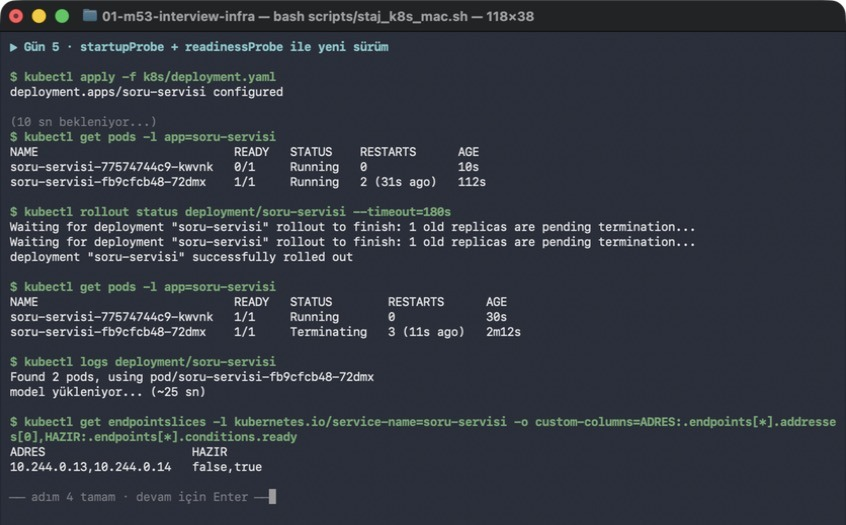
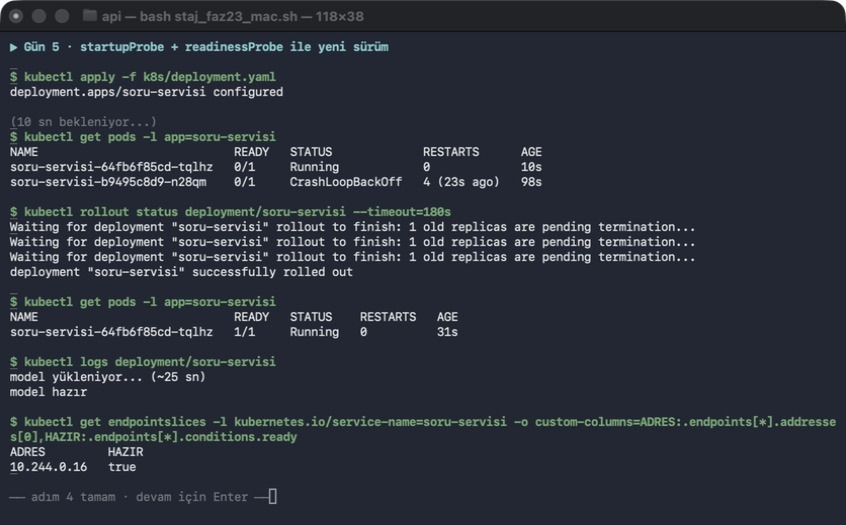
SIGTERM işleyicisi (soru-servisi:1.2) ve admin statik dosyaları
- k8s/app.py: PID 1 iken SIGTERM yok sayılıyordu; işleyici eklendi,
  docker stop 3,1 sn'den 0,1 sn'ye indi
- Manifestler, CI ve betikler soru-servisi:1.2 etiketini kullanıyor
- config/asgi.py: DEBUG'da ASGIStaticFilesHandler; Daphne statik dosya
  sunmadığı için yönetim paneli stilsiz açılıyordu
- Yeni Mac ekran görüntüleri ve README'de sorun kayıtları

Claude-Session: https://claude.ai/code/session_01Kq5kEE8Kt9hC5jwmHe3cs3

diff --git a/k8s/app.py b/k8s/app.py
@@ -4,6 +4,8 @@ Model ağırlıkları yüklenirken servis ayağa kalkar ama istek alamaz;
 yükleme bitince /healthz ve /ready uçları 200 döner.
 """
 import os
+import signal
+import sys
 import threading
 import time
 from http.server import BaseHTTPRequestHandler, ThreadingHTTPServer
@@ -34,6 +36,14 @@ class Handler(BaseHTTPRequestHandler):
         pass
 
 
+def handle_sigterm(signum, frame):
+    # Konteynerde PID 1 olarak çalışıyoruz: işleyicisi olmayan SIGTERM çekirdek
+    # tarafından yok sayılıyor ve kubelet 30 sn bekleyip SIGKILL gönderiyordu.
+    print("SIGTERM alındı, kapanıyor", flush=True)
+    sys.exit(0)
+
+
 if __name__ == "__main__":
+    signal.signal(signal.SIGTERM, handle_sigterm)
     threading.Thread(target=load_model, daemon=True).start()
     ThreadingHTTPServer(("0.0.0.0", 8080), Handler).serve_forever()

diff --git a/api/config/asgi.py b/api/config/asgi.py
@@ -6,6 +6,15 @@ from django.core.asgi import get_asgi_application
 os.environ.setdefault("DJANGO_SETTINGS_MODULE", "config.settings")
 django_asgi_app = get_asgi_application()
 
+from django.conf import settings  # noqa: E402
+
+if settings.DEBUG:
+    # daphne statik dosya sunmuyor; geliştirmede admin CSS/JS'i Django'nun
+    # staticfiles işleyicisi sunsun (üretimde Caddy/whitenoise gibi ayrı bir katman)
+    from django.contrib.staticfiles.handlers import ASGIStaticFilesHandler  # noqa: E402
+
+    django_asgi_app = ASGIStaticFilesHandler(django_asgi_app)
+
 from interviews.routing import websocket_urlpatterns  # noqa: E402
 
 application = ProtocolTypeRouter({

diff --git a/README.md b/README.md
@@ -55,15 +55,15 @@ DB_ENGINE=sqlite .venv/bin/python manage.py test -v 2
 `k8s/app.py`, açılışta modeli belleğe yüklüyormuş gibi yaklaşık 25 saniye bekleyen bir servis. Yükleme bitene kadar `/healthz` ve `/ready` uçları `503` döner.
 
 ```bash
-docker build -t soru-servisi:1.1 k8s/
+docker build -t soru-servisi:1.2 k8s/
 # Docker Desktop'ın yerleşik kümesi yerel imajı doğrudan görür.
-# Ayrı bir kind kümesinde:  kind load docker-image soru-servisi:1.1
-# minikube:                 minikube image load soru-servisi:1.1
+# Ayrı bir kind kümesinde:  kind load docker-image soru-servisi:1.2
+# minikube:                 minikube image load soru-servisi:1.2
 kubectl apply -f k8s/deployment.yaml -f k8s/service.yaml
 kubectl rollout status deployment/soru-servisi
 ```
 
-Karşılaştırma için `k8s/deployment-liveness-only.yaml` yalnızca liveness probe içeren ilk sürümü tutuyor. İmaj her değiştiğinde etiketi de değiştiriyorum (`1.0` → `1.1`); sebebi aşağıdaki tabloda.
+Karşılaştırma için `k8s/deployment-liveness-only.yaml` yalnızca liveness probe içeren ilk sürümü tutuyor. İmaj her değiştiğinde etiketi de değiştiriyorum (`1.0` → `1.1` → `1.2`); sebebi aşağıdaki tabloda.
 
 | Probe | Görevi | Ayar |
 |---|---|---|
@@ -83,7 +83,8 @@ Karşılaştırma için `k8s/deployment-liveness-only.yaml` yalnızca liveness p
 | Pod açılır açılmaz `Error`: `can't open file '/app/app.py': [Errno 13] Permission denied` | Mac'teki dosyanın izni `0600` idi; `COPY` izni imaja aynen taşıdı, uygulama ise root olmayan kullanıcıyla (uid 10001) çalışıyor | `COPY --chmod=0644 app.py .` |
 | Dockerfile düzeldiği hâlde pod'lar aynı hatayı veriyor | İmaj aynı `1.0` etiketiyle yeniden derlendi; `imagePullPolicy: IfNotPresent` olduğu için düğüm önbellekteki eski imajı kullandı | Her değişiklikte yeni etiket (`1.1`); `latest` gibi değişen etiketlere güvenmemek |
 | Pod model yüklenmeden yeniden başlatılıyor | Yalnızca liveness probe vardı; model yüklenirken `/healthz` 503 dönüyor | `startupProbe` + ayrı `readinessProbe` + kaynak sınırları |
-| Liveness hatasından sonra konteyner ~30 sn geç kapanıyor (önceki logda `model hazır` görünüyor) | Python konteynerde PID 1; işleyicisi olmayan `SIGTERM` iletilmiyor, kubelet 30 sn'lik `terminationGracePeriodSeconds` sonunda `SIGKILL` gönderiyor | Açık not: `SIGTERM` işleyicisi eklemek ya da tini gibi bir init süreci kullanmak |
+| Liveness hatasından sonra konteyner ~30 sn geç kapanıyor (önceki logda `model hazır` görünüyor) | Python konteynerde PID 1; işleyicisi olmayan `SIGTERM` iletilmiyor, kubelet 30 sn'lik `terminationGracePeriodSeconds` sonunda `SIGKILL` gönderiyor | `app.py`'de `SIGTERM` işleyicisi (`1.2`): `docker stop` 3,1 sn → 0,1 sn |
+| Yönetim paneli stil dosyaları olmadan açılıyor, `/static/admin/...` 404 | Daphne yalnızca ASGI uygulamasını çalıştırıyor, statik dosya sunmuyor | Geliştirmede `ASGIStaticFilesHandler` (`config/asgi.py`); üretimde önündeki web sunucusu |
 
 ## Testler
 
@@ -101,7 +102,9 @@ Görüntüleri MacBook Air (Apple Silicon) üzerinde Docker Desktop ve yerleşik
 | ![](docs/ekran_goruntuleri/03_compose_localhost_hatasi.jpg)<br/>`DB_HOST=localhost` ile bağlantı hatası | ![](docs/ekran_goruntuleri/04_compose_servis_adi_cozum.jpg)<br/>Servis adı + healthcheck, migration ve `/health/` |
 | ![](docs/ekran_goruntuleri/05_websocket_transkript_paneli.jpg)<br/>WebSocket transkript paneli | ![](docs/ekran_goruntuleri/06_seed_migration_test.jpg)<br/>Deneme verisi, migration durumu ve PostgreSQL üzerinde testler |
 | ![](docs/ekran_goruntuleri/07_k8s_izin_hatasi.jpg)<br/>`0600` dosya izni imaja taşındı: `Permission denied` | ![](docs/ekran_goruntuleri/08_k8s_ayni_etiket_eski_imaj.jpg)<br/>Aynı etiket: yerel imaj düzeldi, düğümdeki imaj eski |
-| ![](docs/ekran_goruntuleri/09_k8s_liveness_yeniden_baslatma.jpg)<br/>Yalnız liveness probe: model yüklenirken yeniden başlatma | ![](docs/ekran_goruntuleri/10_k8s_startup_probe_cozum.jpg)<br/>startupProbe + readinessProbe ile rollout; EndpointSlice'ta yalnız yeni pod hazır |
+| ![](docs/ekran_goruntuleri/09_k8s_liveness_yeniden_baslatma.jpg)<br/>Yalnız liveness probe (1.1): yeniden başlatma, önceki logda `model hazır` | ![](docs/ekran_goruntuleri/13_k8s_sigterm_1_1_ve_1_2.jpg)<br/>`SIGTERM` işleyicisi: `docker stop` 1.1 → 3,1 sn, 1.2 → 0,1 sn |
+| ![](docs/ekran_goruntuleri/14_k8s_liveness_1_2.jpg)<br/>Yalnız liveness probe (1.2): bir dakikada 3 yeniden başlatma, CrashLoopBackOff | ![](docs/ekran_goruntuleri/10_k8s_startup_probe_cozum.jpg)<br/>startupProbe + readinessProbe ile rollout; EndpointSlice'ta yalnız yeni pod hazır |
+| ![](docs/ekran_goruntuleri/11_migration_uygulanmamis.jpg)<br/>Uygulanmamış migration: `column ... does not exist`, `showmigrations`, `migrate` | ![](docs/ekran_goruntuleri/12_django_admin.jpg)<br/>Yönetim panelinde mülakat ve satır içi transkript parçaları |
 
 ## Lisans
 
